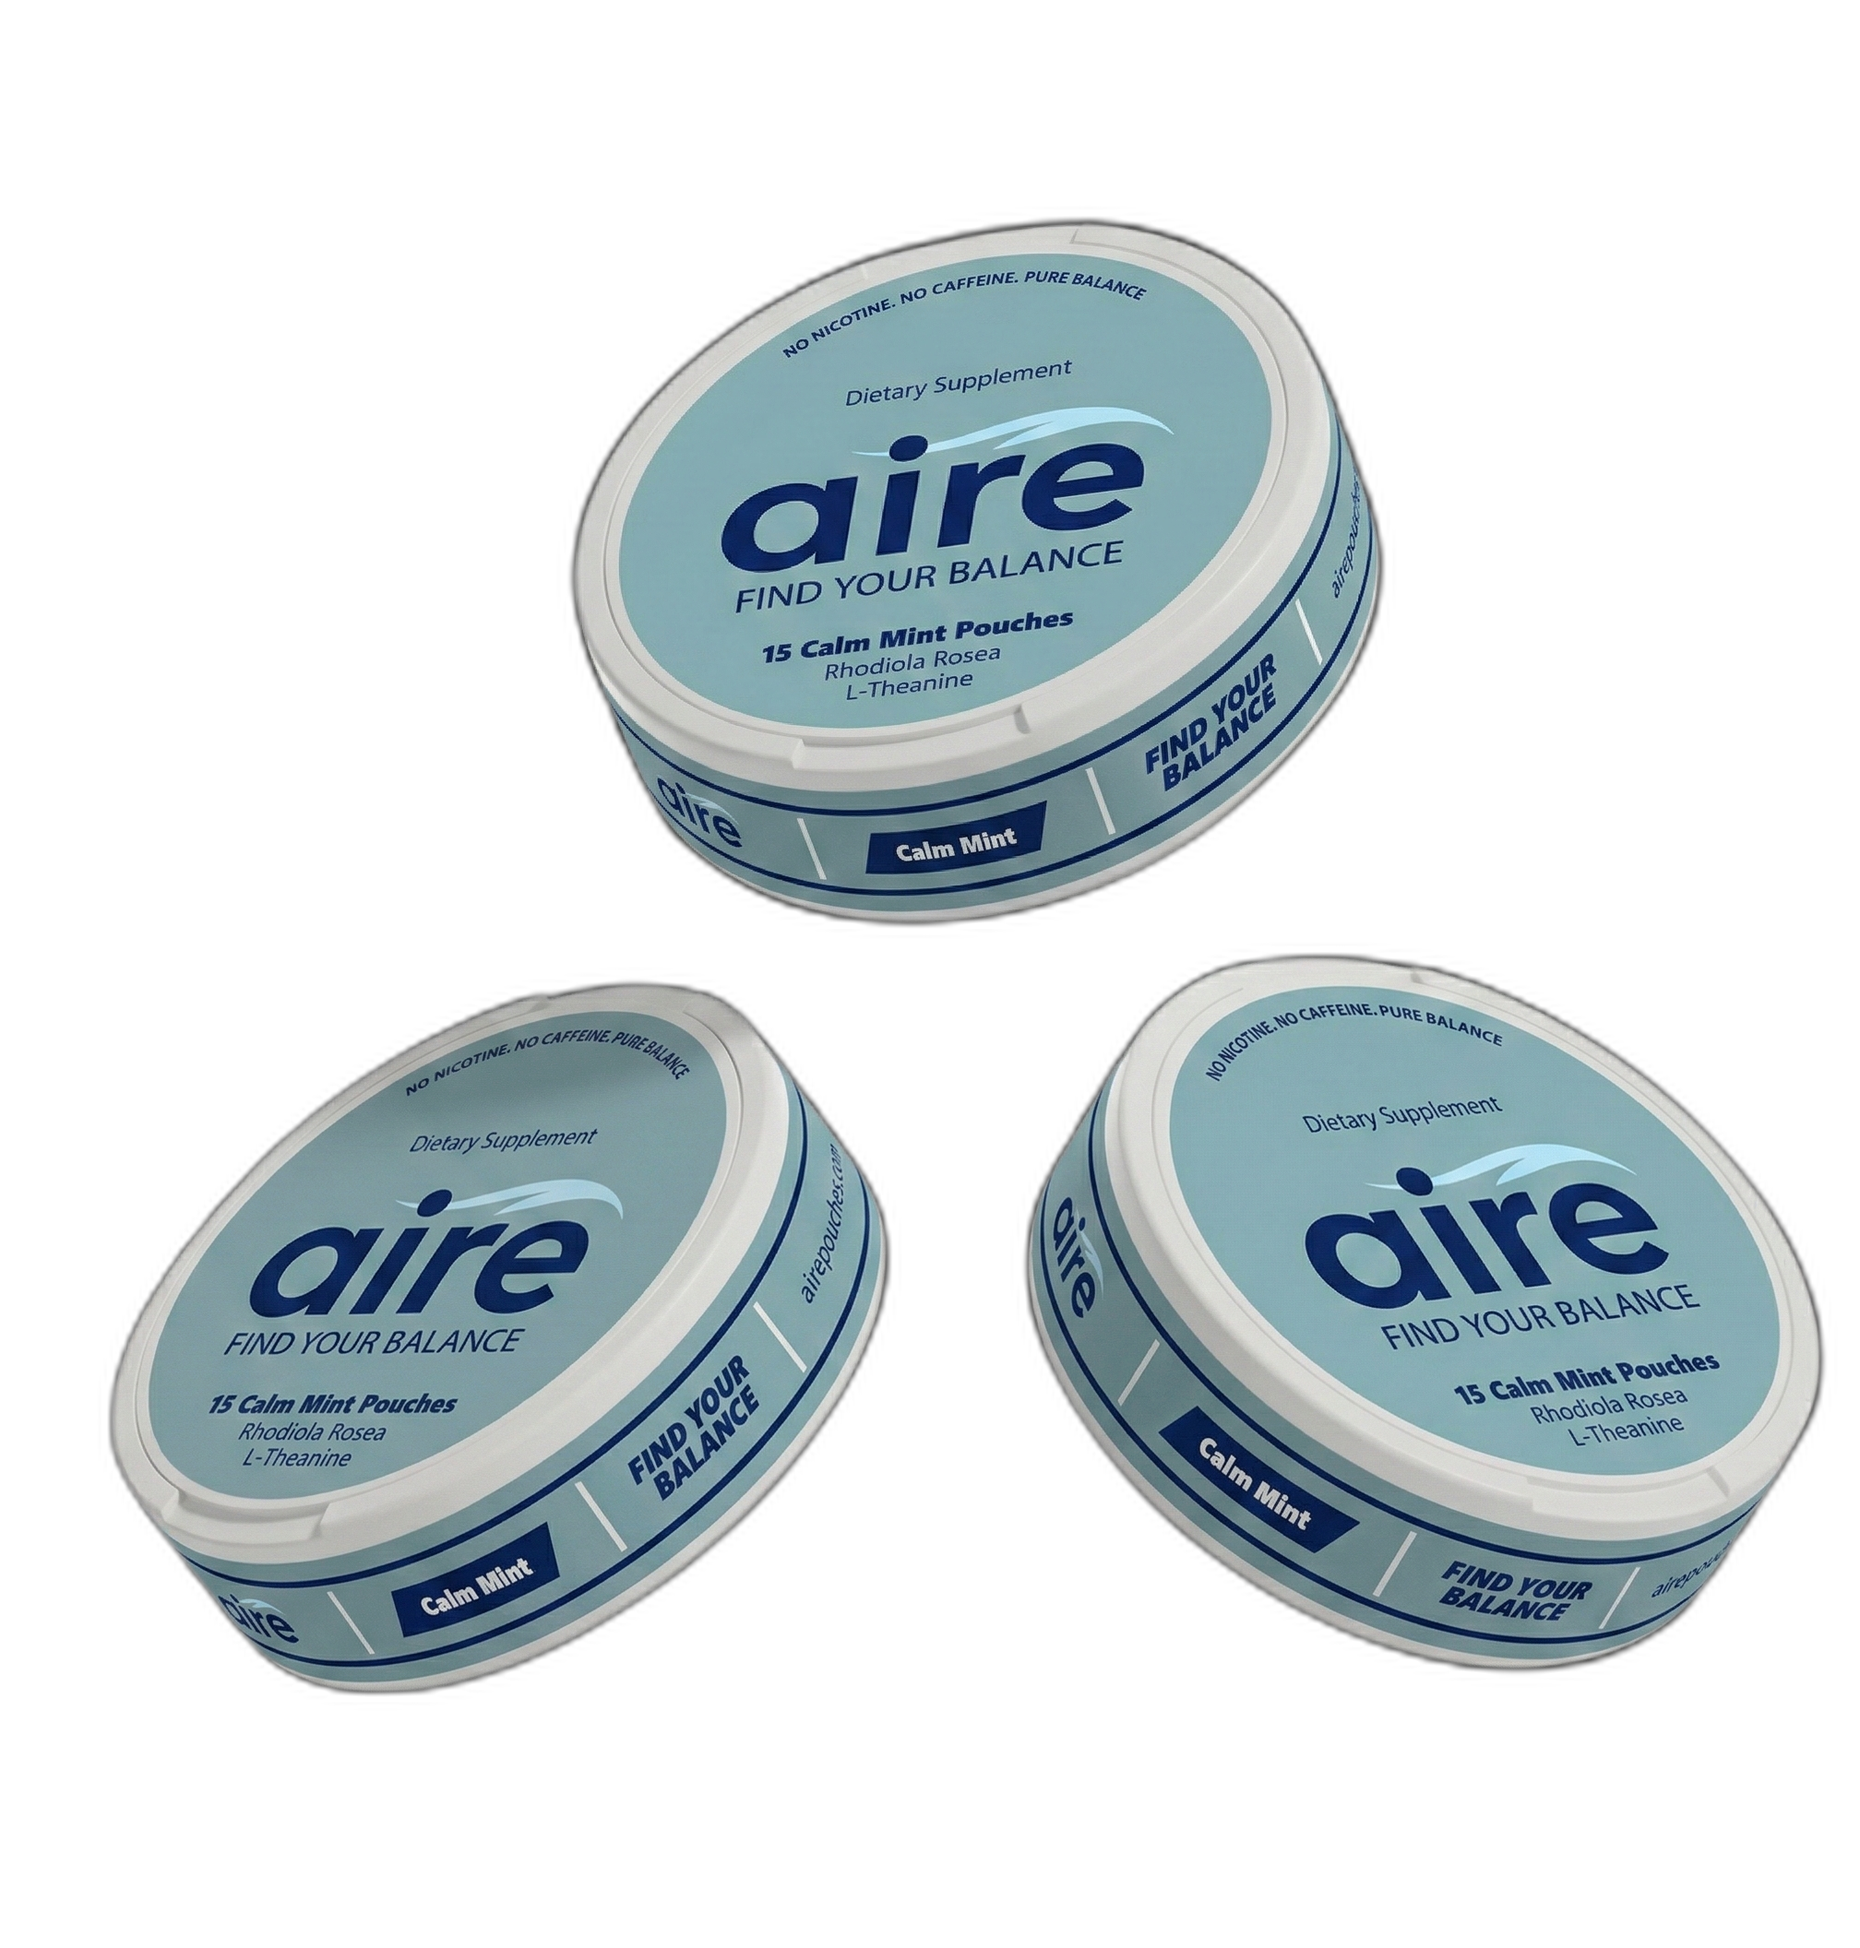
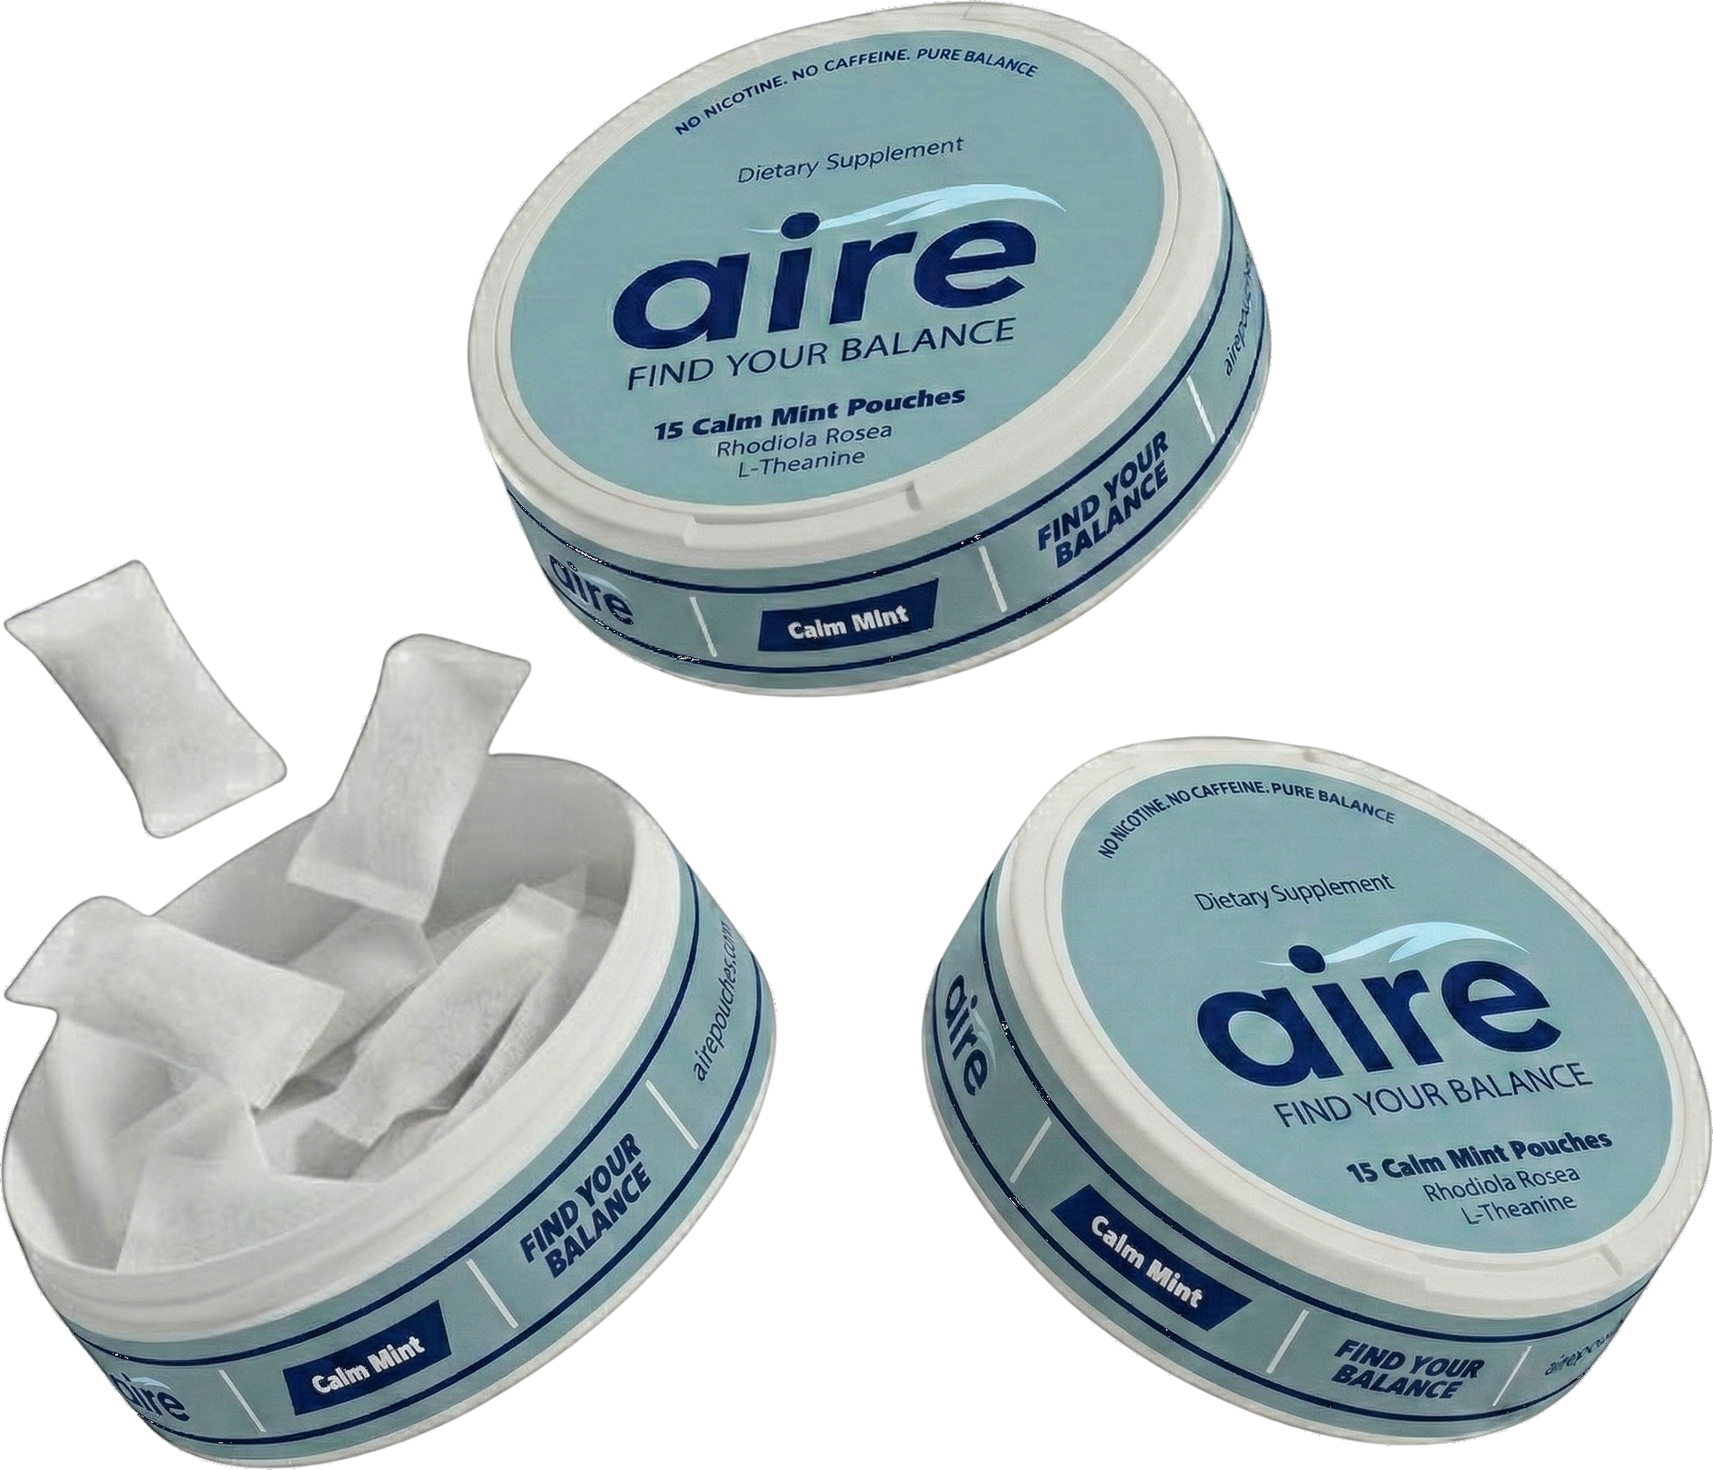
Update hero image to real product photo

diff --git a/src/components/Hero.tsx b/src/components/Hero.tsx
@@ -55,7 +55,7 @@ export default function Hero() {
         </div>
         <motion.div className="flex justify-center items-center w-full" variants={fadeUp} initial="hidden" animate="visible" custom={0.2}>
           <motion.div {...floatAnim}>
-            <Image src="/images/three-cans.png" alt="Aire Flow Pouches 3-Pack" width={720} height={720}
+            <Image src="/images/three-cans-new.png" alt="Aire Flow Pouches 3-Pack" width={720} height={720}
               className="w-full max-w-[320px] md:max-w-[680px] object-contain"
               priority />
           </motion.div>
